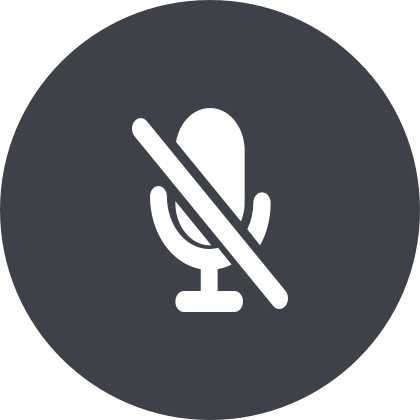
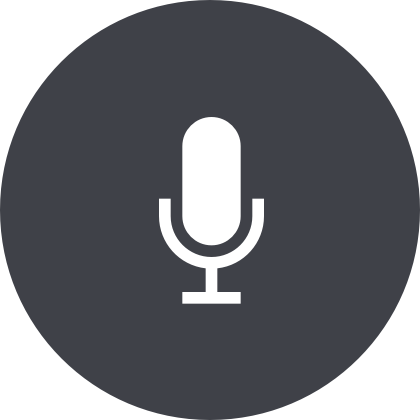
feat(video): update for video <chaunn>

Changed region(s): [[0.3095, 0.2476, 0.681, 0.7429]]

diff --git a/example/lib/screens/video_call/video_call_screen.dart b/example/lib/screens/video_call/video_call_screen.dart
@@ -31,7 +31,8 @@ class VideoCallState extends State<VideoCallScreen> {
   late StreamSubscription _subscription;
   int _callStatus = 0;
   bool isMuted = false;
-  bool isSpeaker = false;
+  Map? _currentAudio;
+  String _callQuality = "";
 
   @override
   void initState() {
@@ -47,6 +48,7 @@ class VideoCallState extends State<VideoCallScreen> {
         if (status == OmiCallState.confirmed.rawValue) {
           if (Platform.isAndroid) {
             refreshRemoteCamera();
+            refreshLocalCamera();
           }
         }
         if (status == OmiCallState.disconnected.rawValue) {
@@ -63,11 +65,42 @@ class VideoCallState extends State<VideoCallScreen> {
       refreshRemoteCamera();
       refreshLocalCamera();
     });
+    OmicallClient.instance.setMuteListener((p0) {
+      setState(() {
+        isMuted = p0;
+      });
+    });
+    OmicallClient.instance.setAudioChangedListener((newAudio) {
+      setState(() {
+        _currentAudio = newAudio.first;
+      });
+    });
+    OmicallClient.instance.getCurrentAudio().then((value) {
+      setState(() {
+        _currentAudio = value.first;
+      });
+    });
+    OmicallClient.instance.setCallQualityListener((data) {
+      final quality = data["quality"] as int;
+      setState(() {
+        if (quality == 0) {
+          _callQuality = "GOOD";
+        }
+        if (quality == 1) {
+          _callQuality = "NORMAL";
+        }
+        if (quality == 2) {
+          _callQuality = "BAD";
+        }
+      });
+    });
   }
 
   @override
   void dispose() {
     OmicallClient.instance.removeVideoEvent();
+    OmicallClient.instance.removeMuteListener();
+    OmicallClient.instance.removeAudioChangedListener();
     _subscription.cancel();
     super.dispose();
   }
@@ -95,48 +128,67 @@ class VideoCallState extends State<VideoCallScreen> {
     Navigator.pop(context);
   }
 
-  Future<void> outputOptions(BuildContext context) async {
-  }
-
-  Future<void> inputOptions(BuildContext context) async {
-  }
-
-  Future<void> moreOption(BuildContext context) async {
-    showCupertinoModalPopup(
-      context: context,
-      builder: (_) => CupertinoActionSheet(
-        actions: [
-          CupertinoActionSheetAction(
-            onPressed: () {
-              Navigator.pop(context);
-              outputOptions(context);
-            },
-            child: const Text("Outputs"),
-          ),
-          CupertinoActionSheetAction(
-            onPressed: () {
-              Navigator.pop(context);
-              inputOptions(context);
-            },
-            child: const Text("Inputs"),
-          )
-        ],
-        cancelButton: CupertinoActionSheetAction(
-          onPressed: () {
-            Navigator.pop(context);
-          },
-          child: const Text('Close'),
-        ),
-      ),
-    );
-  }
-
   void refreshRemoteCamera() {
     _remoteController?.refresh();
   }
 
   void refreshLocalCamera() {
     _localController?.refresh();
+  }
+
+  String get _audioImage {
+    final name = _currentAudio!["name"] as String;
+    if (name == "Receiver") {
+      return "ic_iphone";
+    }
+    if (name == "Speaker") {
+      return "ic_speaker";
+    }
+    return "ic_airpod";
+  }
+
+  Future<void> toggleAndCheckDevice() async {
+    final audioList = await OmicallClient.instance.getOutputAudios();
+    if (!mounted) {
+      return;
+    }
+    if (audioList.length > 2) {
+      //show selection
+      showCupertinoModalPopup(
+        context: context,
+        builder: (_) => CupertinoActionSheet(
+          actions: audioList.map((e) {
+            String name = e["name"];
+            if (name == "Receiver") {
+              name = "iPhone";
+            }
+            return CupertinoActionSheetAction(
+              onPressed: () {
+                OmicallClient.instance.setOutputAudio(portType: e["type"]);
+                Navigator.pop(context);
+              },
+              child: Text(name),
+            );
+          }).toList(),
+          cancelButton: CupertinoActionSheetAction(
+            onPressed: () {
+              Navigator.pop(context);
+            },
+            child: const Text('Close'),
+          ),
+        ),
+      );
+    } else {
+      if (_currentAudio!["name"] == "Receiver") {
+        final speaker =
+            audioList.firstWhere((element) => element["name"] == "Speaker");
+        OmicallClient.instance.setOutputAudio(portType: speaker["type"]);
+      } else {
+        final receiver =
+            audioList.firstWhere((element) => element["name"] == "Receiver");
+        OmicallClient.instance.setOutputAudio(portType: receiver["type"]);
+      }
+    }
   }
 
   @override
@@ -192,7 +244,8 @@ class VideoCallState extends State<VideoCallScreen> {
                   height: double.infinity,
                   onCameraCreated: (controller) async {
                     _remoteController = controller;
-                    if (_callStatus == OmiCallState.confirmed.rawValue && Platform.isAndroid) {
+                    if (_callStatus == OmiCallState.confirmed.rawValue &&
+                        Platform.isAndroid) {
                       await Future.delayed(const Duration(milliseconds: 200));
                       controller.refresh();
                     }
@@ -210,7 +263,8 @@ class VideoCallState extends State<VideoCallScreen> {
                 height: double.infinity,
                 onCameraCreated: (controller) async {
                   _localController = controller;
-                  if (_callStatus == OmiCallState.confirmed.rawValue && Platform.isAndroid) {
+                  if (_callStatus == OmiCallState.confirmed.rawValue &&
+                      Platform.isAndroid) {
                     await Future.delayed(const Duration(milliseconds: 200));
                     controller.refresh();
                   }
@@ -261,13 +315,15 @@ class VideoCallState extends State<VideoCallScreen> {
                         OmicallClient.instance.toggleAudio();
                       },
                     ),
-                    OptionItem(
-                      icon: "more",
-                      showDefaultIcon: true,
-                      callback: () {
-                        moreOption(context);
-                      },
-                    ),
+                    if (_currentAudio != null)
+                      OptionItem(
+                        icon: _audioImage,
+                        showDefaultIcon: true,
+                        color: Colors.white,
+                        callback: () {
+                          toggleAndCheckDevice();
+                        },
+                      ),
                   ],
                 ),
               ),
@@ -280,12 +336,14 @@ class VideoCallState extends State<VideoCallScreen> {
                 child: Row(
                   mainAxisAlignment: MainAxisAlignment.spaceAround,
                   children: [
-                    if ((_callStatus == OmiCallState.early.rawValue || _callStatus == OmiCallState.incoming.rawValue) && widget.isOutGoingCall == false)
+                    if ((_callStatus == OmiCallState.early.rawValue ||
+                            _callStatus == OmiCallState.incoming.rawValue) &&
+                        widget.isOutGoingCall == false)
                       RoundedCircleButton(
                         iconSrc: "assets/icons/call_end.svg",
                         press: () async {
                           final result =
-                          await OmicallClient.instance.joinCall();
+                              await OmicallClient.instance.joinCall();
                           if (result == false && context.mounted) {
                             Navigator.pop(context);
                           }
@@ -307,6 +365,20 @@ class VideoCallState extends State<VideoCallScreen> {
                   ],
                 ),
               ),
+            Positioned(
+              top: MediaQuery.of(context).viewPadding.top + 16,
+              left: 12,
+              right: 12,
+              child: Text(
+                _callQuality,
+                textAlign: TextAlign.center,
+                style: const TextStyle(
+                  color: Colors.white,
+                  fontSize: 16,
+                  fontWeight: FontWeight.w600,
+                ),
+              ),
+            )
           ],
         ),
       ),
@@ -319,12 +391,14 @@ class OptionItem extends StatelessWidget {
   final String icon;
   final bool showDefaultIcon;
   final VoidCallback callback;
+  final Color? color;
 
   const OptionItem({
     Key? key,
     required this.icon,
     this.showDefaultIcon = true,
     required this.callback,
+    this.color,
   }) : super(key: key);
 
   @override
@@ -343,6 +417,7 @@ class OptionItem extends StatelessWidget {
             "assets/images/${showDefaultIcon ? icon : "$icon-off"}.png",
             width: 30,
             height: 30,
+            color: color,
           ),
         ),
       ),

diff --git a/example/lib/screens/login/login_user_password_screen.dart b/example/lib/screens/login/login_user_password_screen.dart
@@ -25,7 +25,7 @@ class _LoginScreenState extends State<LoginUserPasswordScreen> {
   late final TextEditingController _passwordController = TextEditingController()
     ..text = Platform.isIOS ? 'AwiZHdm2SY' : 'a7JoGYJbJQ';
   late final TextEditingController _serviceUrlController =
-      TextEditingController()..text = '';
+      TextEditingController()..text = 'devtestcallbot';
   late final TextEditingController _hostUrlController = TextEditingController()
     ..text = 'vh.omicrm.com';
 

diff --git a/example/lib/screens/dial/dial_screen.dart b/example/lib/screens/dial/dial_screen.dart
@@ -168,7 +168,7 @@ class DialScreenState extends State<DialScreen> {
     _stopWatch();
     OmicallClient.instance.removeCallQualityListener();
     OmicallClient.instance.removeMuteListener();
-    OmicallClient.instance.removeSpeakerListener();
+    OmicallClient.instance.removeAudioChangedListener();
     super.dispose();
   }
 
